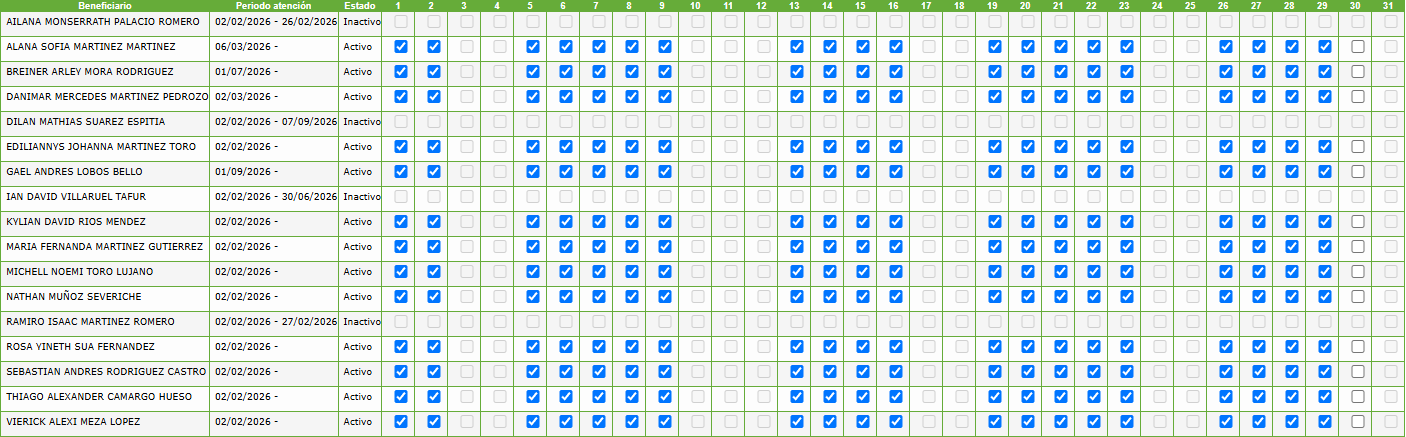
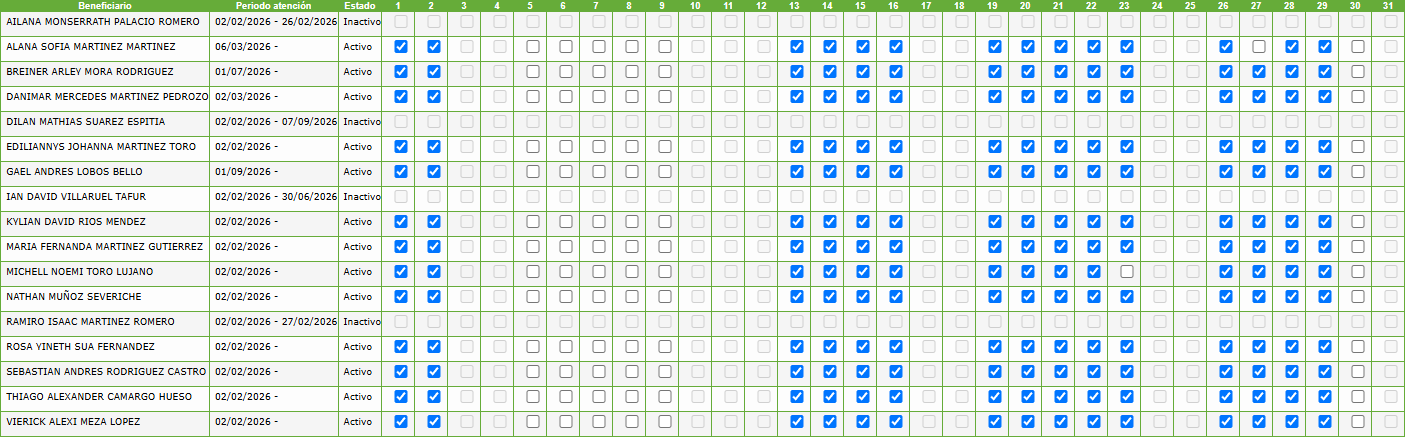
fix(ram): selector de mes insensible a mayusculas con fallback numerico y pausa en Descargar_Reportes_BD

diff --git a/automatizaciones/llenar-asistencia.js b/automatizaciones/llenar-asistencia.js
@@ -412,7 +412,7 @@ async function ejecutarFase1(asociaciones, mesAtencion) {
             console.log('  📝 Llenando filtros del RAM...');
             const selectDropdown = async (keyword, textOrIndex) => {
             try {
-                const sel = contentFrame.locator(`select[id*="${keyword}"]`).first();
+                const sel = contentFrame.locator(`select[id*="${keyword}" i], select[name*="${keyword}" i]`).first();
                 
                 // Esperar hasta que el select aparezca (max 10 segs)
                 let attempts = 0;
@@ -431,8 +431,20 @@ async function ejecutarFase1(asociaciones, mesAtencion) {
                 for (let retry = 0; retry < 40; retry++) {
                     if (typeof textOrIndex === 'string') {
                         valueToSelect = await sel.evaluate((s, t) => {
-                            const opt = Array.from(s.options).find(o => o.text.toUpperCase().includes(t.toUpperCase()));
-                            return opt ? opt.value : null;
+                            const opts = Array.from(s.options).filter(o => o.value && o.value !== "0" && o.value !== "-1" && o.value !== "");
+                            const tNorm = t.normalize("NFD").replace(/[\u0300-\u036f]/g, "").toUpperCase().trim();
+                            let opt = opts.find(o => {
+                                const oNorm = o.text.normalize("NFD").replace(/[\u0300-\u036f]/g, "").toUpperCase().trim();
+                                return oNorm.includes(tNorm) || tNorm.includes(oNorm);
+                            });
+                            if (opt) return opt.value;
+                            const mapaMeses = { 'ENERO': '1', 'FEBRERO': '2', 'MARZO': '3', 'ABRIL': '4', 'MAYO': '5', 'JUNIO': '6', 'JULIO': '7', 'AGOSTO': '8', 'SEPTIEMBRE': '9', 'OCTUBRE': '10', 'NOVIEMBRE': '11', 'DICIEMBRE': '12' };
+                            const numMes = mapaMeses[tNorm] || '';
+                            if (numMes) {
+                                opt = opts.find(o => String(o.value).trim() === numMes || o.text.trim().startsWith(numMes));
+                                if (opt) return opt.value;
+                            }
+                            return null;
                         }, textOrIndex);
                     } else if (typeof textOrIndex === 'number') {
                         valueToSelect = await sel.evaluate(s => {
@@ -1072,7 +1084,7 @@ async function ejecutarFase2(asociaciones, mesAtencion) {
                 // Llenar filtros de RAM
                 const selectDropdown = async (keyword, textOrIndex) => {
                     try {
-                        const sel = contentFrame.locator(`select[id*="${keyword}"]`).first();
+                        const sel = contentFrame.locator(`select[id*="${keyword}" i], select[name*="${keyword}" i]`).first();
                         if (await sel.count() === 0) return;
                         
                         for (let r = 0; r < 30; r++) {
@@ -1086,11 +1098,20 @@ async function ejecutarFase2(asociaciones, mesAtencion) {
                             if (typeof textOrIndex === 'string') {
                                 const targetText = removeAccentsStr(textOrIndex);
                                 valueToSelect = await sel.evaluate((s, t) => {
-                                    const opt = Array.from(s.options).find(o => {
-                                        const tNorm = o.text.normalize("NFD").replace(/[\u0300-\u036f]/g, "").toUpperCase();
-                                        return tNorm.includes(t) || t.includes(tNorm);
+                                    const opts = Array.from(s.options).filter(o => o.value && o.value !== "0" && o.value !== "-1" && o.value !== "");
+                                    const tNorm = t.normalize("NFD").replace(/[\u0300-\u036f]/g, "").toUpperCase().trim();
+                                    let opt = opts.find(o => {
+                                        const oNorm = o.text.normalize("NFD").replace(/[\u0300-\u036f]/g, "").toUpperCase().trim();
+                                        return oNorm.includes(tNorm) || tNorm.includes(oNorm);
                                     });
-                                    return opt ? opt.value : null;
+                                    if (opt) return opt.value;
+                                    const mapaMeses = { 'ENERO': '1', 'FEBRERO': '2', 'MARZO': '3', 'ABRIL': '4', 'MAYO': '5', 'JUNIO': '6', 'JULIO': '7', 'AGOSTO': '8', 'SEPTIEMBRE': '9', 'OCTUBRE': '10', 'NOVIEMBRE': '11', 'DICIEMBRE': '12' };
+                                    const numMes = mapaMeses[tNorm] || '';
+                                    if (numMes) {
+                                        opt = opts.find(o => String(o.value).trim() === numMes || o.text.trim().startsWith(numMes));
+                                        if (opt) return opt.value;
+                                    }
+                                    return null;
                                 }, targetText);
                             }
                             if (valueToSelect) break;
@@ -1794,25 +1815,50 @@ async function ejecutarFase3(asociaciones, mesAtencion) {
 
                 const selectDropdown = async (keyword, textOrIndex) => {
                     try {
-                        const sel = contentFrame.locator(`select[id*="${keyword}"]`).first();
-                        if (await sel.count() === 0) return;
+                        const sel = contentFrame.locator(`select[id*="${keyword}" i], select[name*="${keyword}" i]`).first();
+                        if (await sel.count() === 0) {
+                            console.log(c.amarillo(`    ⚠ [Filtro] Selector select para "${keyword}" no encontrado en el DOM.`));
+                            return false;
+                        }
                         
                         // Esperar a que el selector esté habilitado y tenga opciones
                         await contentFrame.waitForFunction((kw) => {
-                            const el = document.querySelector(`select[id*="${kw}"]`);
+                            const el = document.querySelector(`select[id*="${kw}" i], select[name*="${kw}" i]`);
                             return el && !el.disabled && el.options && el.options.length > 0;
                         }, keyword, { timeout: 8000 }).catch(() => {});
 
                         let valueToSelect = null;
-                        for (let retry = 0; retry < 25; retry++) {
+                        for (let retry = 0; retry < 30; retry++) {
                             if (typeof textOrIndex === 'string') {
                                 const targetText = removeAccentsStr(textOrIndex);
                                 valueToSelect = await sel.evaluate((s, t) => {
-                                    const opt = Array.from(s.options).find(o => {
-                                        const tNorm = o.text.normalize("NFD").replace(/[\u0300-\u036f]/g, "").toUpperCase();
-                                        return tNorm.includes(t) || t.includes(tNorm);
+                                    const opts = Array.from(s.options).filter(o => o.value && o.value !== "0" && o.value !== "-1" && o.value !== "" && !o.text.toUpperCase().includes("SELECCIONE"));
+                                    if (opts.length === 0) return null;
+
+                                    // 1. Coincidencia por texto normalizado
+                                    const tNorm = t.normalize("NFD").replace(/[\u0300-\u036f]/g, "").toUpperCase().trim();
+                                    let opt = opts.find(o => {
+                                        const oNorm = o.text.normalize("NFD").replace(/[\u0300-\u036f]/g, "").toUpperCase().trim();
+                                        return oNorm.includes(tNorm) || tNorm.includes(oNorm);
                                     });
-                                    return opt ? opt.value : null;
+                                    if (opt) return opt.value;
+
+                                    // 2. Coincidencia específica para Meses (ej. Octubre = 10, Noviembre = 11)
+                                    const mapaMeses = {
+                                        'ENERO': '1', 'FEBRERO': '2', 'MARZO': '3', 'ABRIL': '4', 'MAYO': '5', 'JUNIO': '6',
+                                        'JULIO': '7', 'AGOSTO': '8', 'SEPTIEMBRE': '9', 'OCTUBRE': '10', 'NOVIEMBRE': '11', 'DICIEMBRE': '12'
+                                    };
+                                    const numMes = mapaMeses[tNorm] || (mapaMeses[tNorm.slice(0, 3)] || '');
+                                    if (numMes) {
+                                        opt = opts.find(o => {
+                                            const v = String(o.value).trim();
+                                            const txt = o.text.trim();
+                                            return v === numMes || txt.startsWith(numMes + ' ') || txt.startsWith(numMes + '-') || txt.startsWith(numMes + '.');
+                                        });
+                                        if (opt) return opt.value;
+                                    }
+
+                                    return null;
                                 }, targetText);
                             } else if (typeof textOrIndex === 'number') {
                                 valueToSelect = await sel.evaluate(s => {
@@ -1821,7 +1867,7 @@ async function ejecutarFase3(asociaciones, mesAtencion) {
                                 });
                             }
                             if (valueToSelect) break;
-                            await mainPage.waitForTimeout(100);
+                            await mainPage.waitForTimeout(150);
                         }
 
                         if (valueToSelect) {
@@ -1829,11 +1875,19 @@ async function ejecutarFase3(asociaciones, mesAtencion) {
                             if (curVal !== valueToSelect) {
                                 console.log(c.gris(`    [Filtro] Seleccionando ${keyword}: ${valueToSelect}`));
                                 await sel.selectOption(valueToSelect, { timeout: 5000 }).catch(() => {});
-                                // Espera determinista al término del PostBack automático
+                                await sel.evaluate(el => {
+                                    el.dispatchEvent(new Event('change', { bubbles: true }));
+                                    if (typeof __doPostBack === 'function') {
+                                        try { __doPostBack(el.name || el.id, ''); } catch(e) {}
+                                    }
+                                }).catch(() => {});
                                 await mainPage.waitForTimeout(500);
                                 await esperarPostBackASPNet(contentFrame, 6000);
                             }
                             return true;
+                        } else {
+                            const opcionesDisponibles = await sel.evaluate(s => Array.from(s.options).map(o => `${o.value}: ${o.text}`).slice(0, 15)).catch(() => []);
+                            console.log(c.amarillo(`    ⚠ [Filtro] No se encontró valor para "${keyword}" (${textOrIndex}). Opciones en el select: [${opcionesDisponibles.join(', ')}]`));
                         }
                     } catch(e) {
                         console.log(c.gris(`    (Filtro ${keyword}: ${e.message})`));
@@ -1941,8 +1995,20 @@ async function ejecutarFase3(asociaciones, mesAtencion) {
                 }
 
                 // 6. Mes y Estado
-                await selectDropdown('ddlMes', ramData.mes || mesAtencion);
-                await selectDropdown('ddlEstado', 'Todos');
+                const mesASeleccionar = ramData.mes || mesAtencion || 'Octubre';
+                console.log(c.cyan(`    📅 Configurando Mes de atención: "${mesASeleccionar}"...`));
+                await selectDropdown('Mes', mesASeleccionar);
+                await selectDropdown('Estado', 'Todos');
+
+                // 6.1 Verificar que el Mes haya quedado efectivamente seleccionado antes de consultar
+                const mesSel = contentFrame.locator('select[id*="Mes" i], select[name*="Mes" i]').first();
+                if (await mesSel.count() > 0) {
+                    const mesVal = await mesSel.evaluate(s => s.value).catch(() => '');
+                    if (!mesVal || mesVal === '0' || mesVal === '-1' || mesVal === '') {
+                        console.log(c.amarillo(`    ⚠ Verificación: Mes sigue sin seleccionar (${mesVal}). Forzando reintento con "${mesASeleccionar}"...`));
+                        await selectDropdown('Mes', mesASeleccionar);
+                    }
+                }
 
                 // 7. Clic en la Lupa para consultar beneficiarios
                 console.log(c.gris('    👉 Clic en Lupa para consultar beneficiarios...'));
